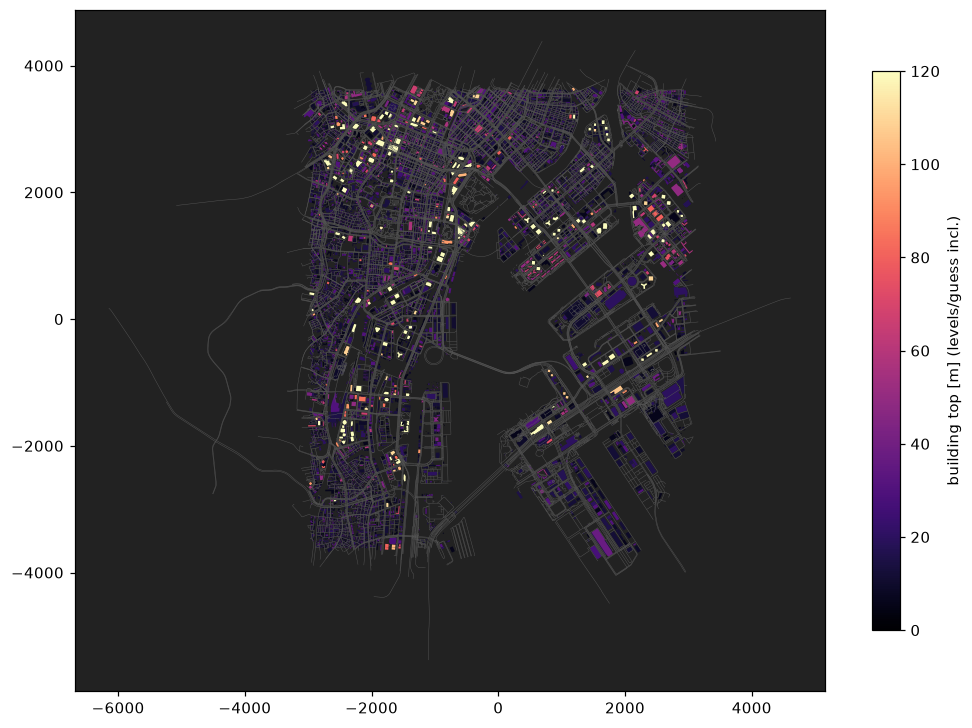
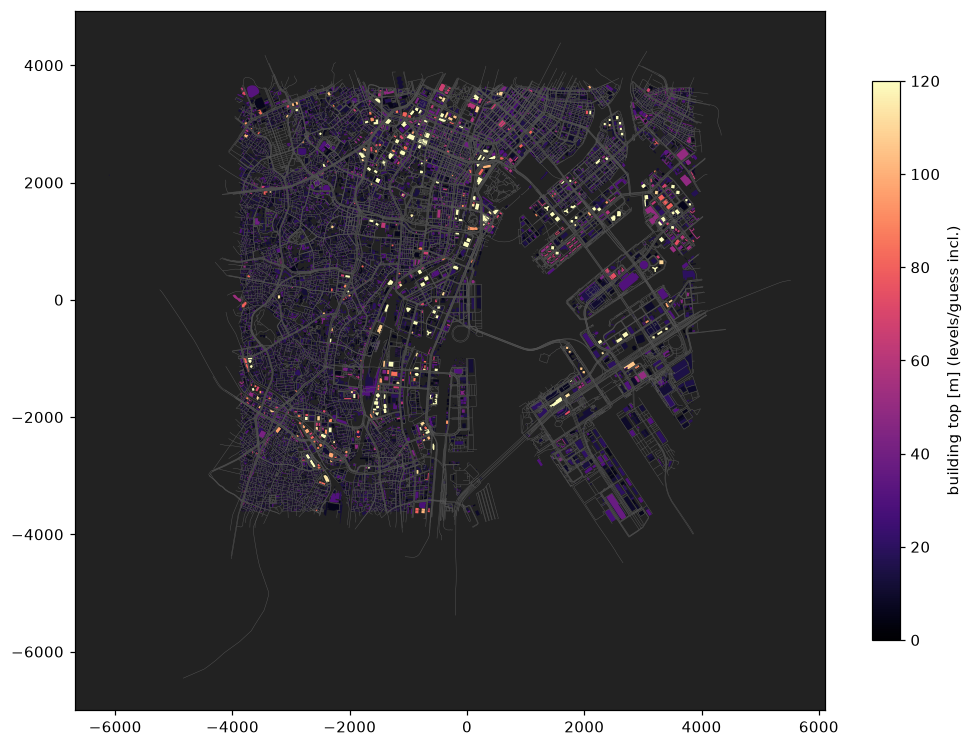
feat: bbox西端を139.715に拡張し、取得処理を堅牢化
西側(芝浦・品川・高輪・麻布方面)の対岸を追加。Overpassの502/504対策で
リトライを入れ、キャッシュファイル名にbboxを含めて範囲変更時に自動再取得する。

Claude-Session: https://claude.ai/code/session_012psZ8ZS3vGQ3MX96R9yEyw

diff --git a/src/vt/osm_fetch.py b/src/vt/osm_fetch.py
@@ -1,13 +1,14 @@
 """Overpass APIからお台場周辺のOSMを取得してdata/osm/にキャッシュする。"""
 import json
 import sys
+import time
 from pathlib import Path
 
 import requests
 
 # 南, 西, 北, 東
-BBOX = (35.610, 139.735, 35.675, 139.800)
-CACHE = Path(__file__).resolve().parents[2] / "data/osm/odaiba.osm.json"
+BBOX = (35.610, 139.715, 35.675, 139.800)
+CACHE = Path(__file__).resolve().parents[2] / f"data/osm/odaiba_{'_'.join(map(str, BBOX))}.osm.json"  # bbox変更で自動再取得
 ENDPOINTS = ["https://overpass-api.de/api/interpreter", "https://overpass.kumi.systems/api/interpreter"]
 
 HEADERS = {"User-Agent": "virtual-tokyo/0.1 (OSM procedural city project)", "Accept": "*/*"}
@@ -33,13 +34,18 @@ def fetch(force: bool = False) -> dict:
     if CACHE.exists() and not force:
         return json.loads(CACHE.read_text())
     q = QUERY.format(b=",".join(map(str, BBOX)))
-    for url in ENDPOINTS:
-        try:
-            r = requests.post(url, data={"data": q}, headers=HEADERS, timeout=400)
-            r.raise_for_status()
-            break
-        except requests.RequestException as e:
-            print(f"{url}: {e}", file=sys.stderr)
+    for attempt in range(4):
+        for url in ENDPOINTS:
+            try:
+                r = requests.post(url, data={"data": q}, headers=HEADERS, timeout=400)
+                r.raise_for_status()
+                break
+            except requests.RequestException as e:
+                print(f"{url}: {e}", file=sys.stderr)
+        else:
+            time.sleep(30 * (attempt + 1))
+            continue
+        break
     else:
         raise RuntimeError("all Overpass endpoints failed")
     CACHE.parent.mkdir(parents=True, exist_ok=True)

diff --git a/src/vt/preview.py b/src/vt/preview.py
@@ -49,7 +49,7 @@ def main():
     draw(L, ax)
     ax.set_title("OSM layers (m, origin=bbox center)  red=rail green=Yurikamome orange=Monorail")
     fig.savefig(OUT / "overview.png", bbox_inches="tight")
-    ax.set_xlim(-1000, 3300); ax.set_ylim(-3200, 1500)
+    ax.set_xlim(-1500, 3300); ax.set_ylim(-3200, 1500)
     fig.savefig(OUT / "odaiba.png", bbox_inches="tight")
     plt.close(fig)
 
